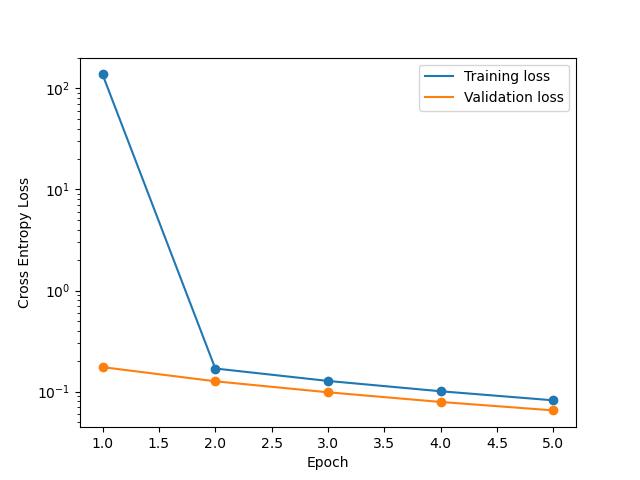
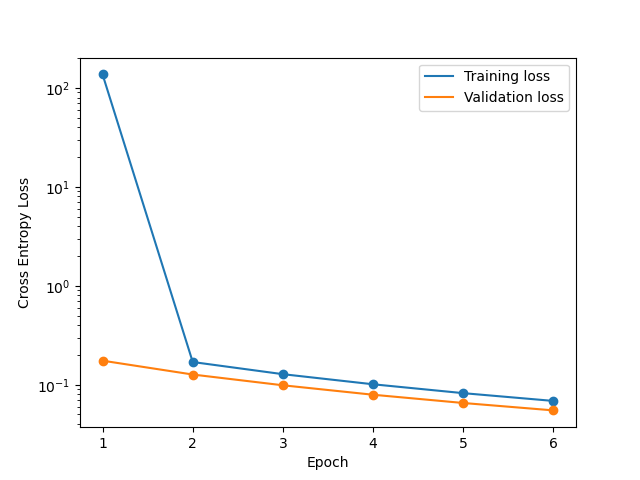
Model continues improving

diff --git a/Module 20/README.md b/Module 20/README.md
@@ -49,5 +49,3 @@ The model takes quite a while to fit and its progress is ongoing. The current it
 - Infrastructure.py : Holds a custom dataloader and wrapper for ResNet18 (inspired by my code for a [Captcha Breaker](https://github.com/CaptchaOCR/CNN))
 - run_fitting.py : Run the fit. Loads data, manages logs, etc.
 - ResultsAnalysis.ipynb : Will be included in next push.
-
-##### Contact and Further Information
